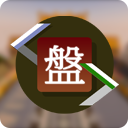
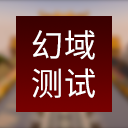
资源包新版本号、测试版图标；调整基岩端资源包描述

diff --git a/LangFile/index.js b/LangFile/index.js
@@ -1,3 +1,3 @@
-const tool = require('pcub-locale');
+const tool = require('../../pcub-locale');
 tool.process('panling','sins','xsj','fcub','fcub-java');
 tool.process('xsj','fcub'); // 需确保万通互通套件不对 Geyser 语言文件做额外修改，否则这些修改可能失效
